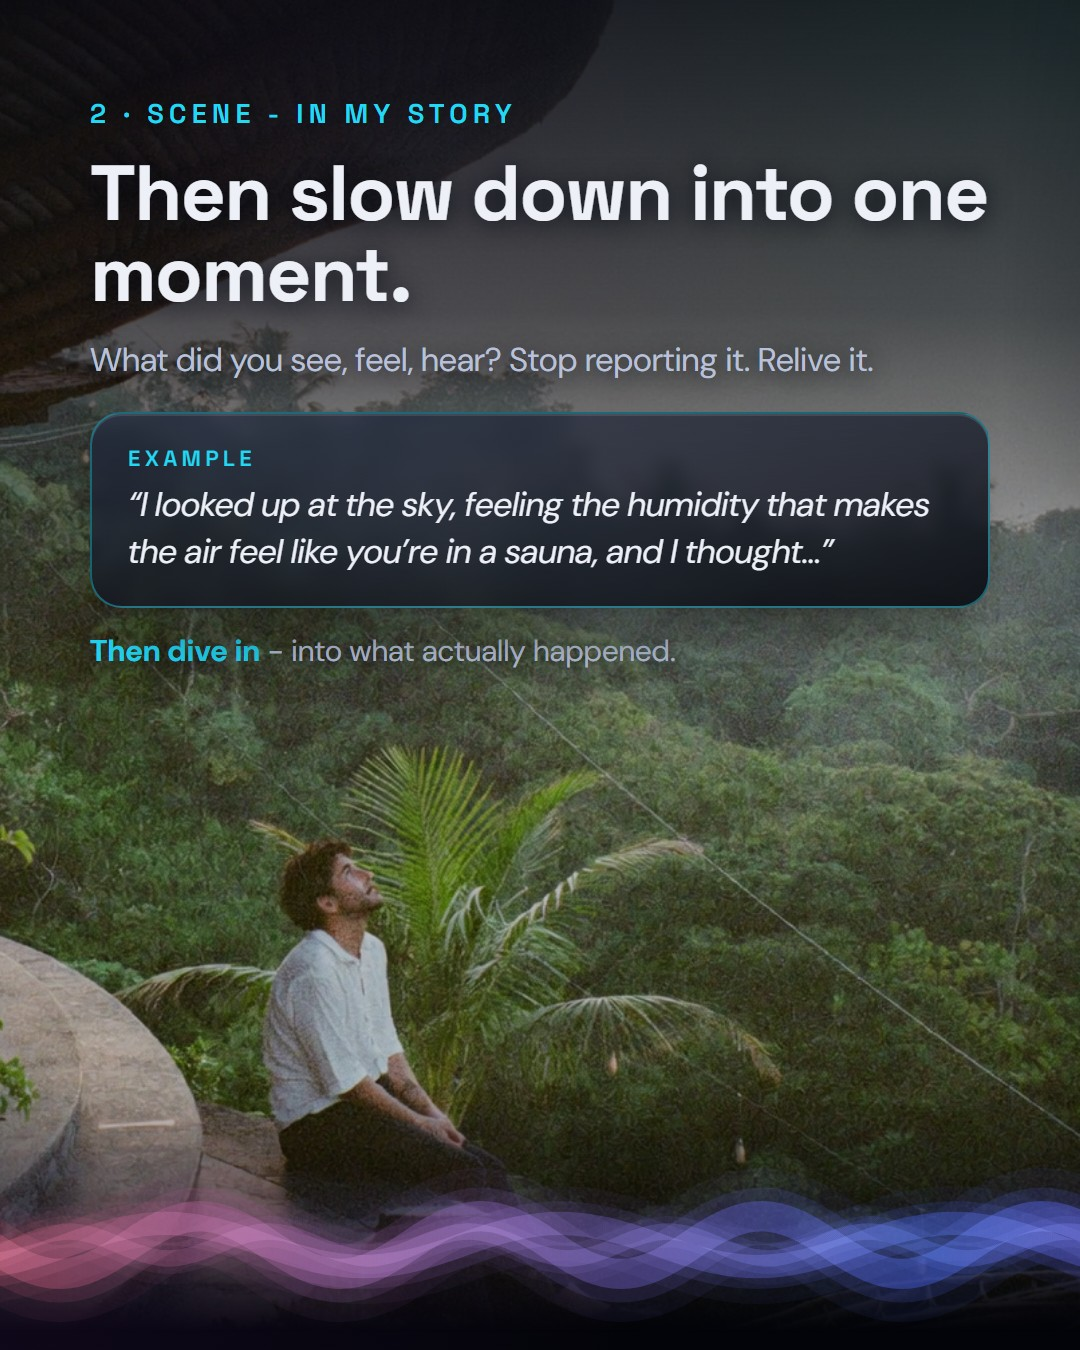
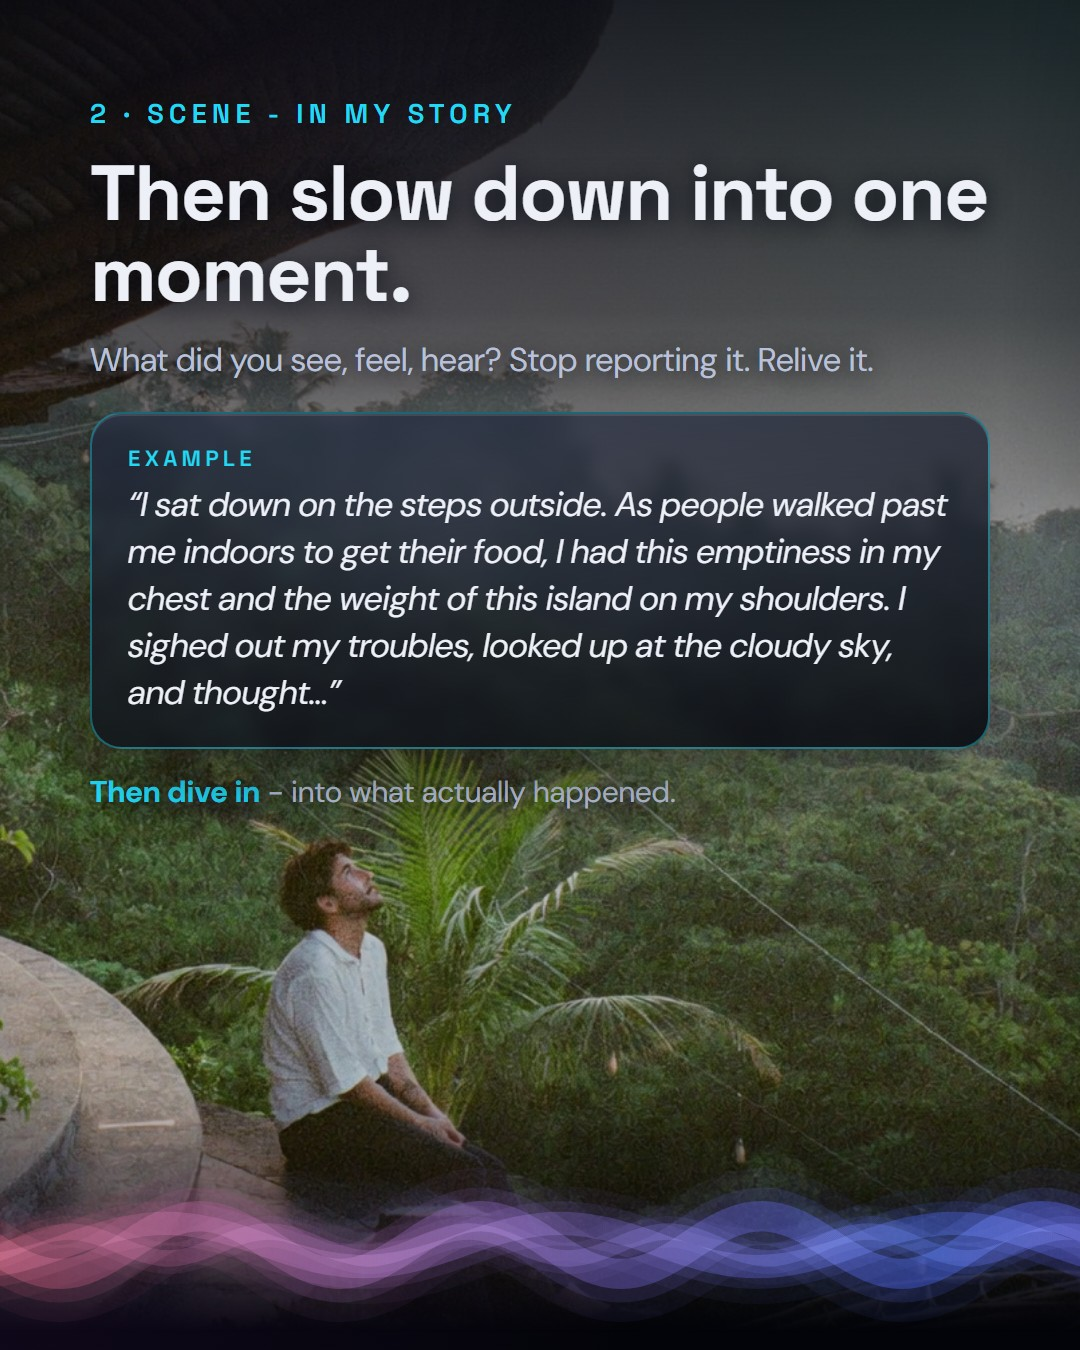
Phone deck viewer: Post 4 black - Tariq's new scene on slide 4

Changed region(s): [[0.0611, 0.3422, 0.9167, 0.6222]]

diff --git a/public/d-BlBAiR0ZRDrG/post4-black.html b/public/d-BlBAiR0ZRDrG/post4-black.html
@@ -5,7 +5,7 @@ main{max-width:540px;margin:0 auto;padding:16px 16px 48px}h1{font-size:18px;marg
 .dots{display:flex;justify-content:center;gap:6px;margin:10px 0 18px}.dots i{width:6px;height:6px;border-radius:50%;background:#36406a}.dots i.on{background:#22D9F5}
 .pano{overflow-x:auto;border-radius:8px}.pano img{height:260px;display:block}h2{font-size:14px;margin:22px 0 8px;color:#B9C0D8}</style></head><body><main>
 <a href="index.html">‹ All</a><h1>Post 4 · How to Tell Epic Stories - black</h1><small>9 slides · swipe like Instagram</small><small style="display:block;margin:6px 0">Version: <a href="post4.html">Glassy gradient</a> · <a href="post4-black.html">Black</a></small>
-<div class="car" id="c"><img src="post4-black/01.jpg?v=7" alt="Slide 1"><img src="post4-black/02.jpg?v=7" alt="Slide 2"><img src="post4-black/03.jpg?v=7" alt="Slide 3"><img src="post4-black/04.jpg?v=7" alt="Slide 4"><img src="post4-black/05.jpg?v=7" alt="Slide 5"><img src="post4-black/06.jpg?v=7" alt="Slide 6"><img src="post4-black/07.jpg?v=7" alt="Slide 7"><img src="post4-black/08.jpg?v=7" alt="Slide 8"><img src="post4-black/09.jpg?v=7" alt="Slide 9"></div><div class="dots" id="d"><i></i><i></i><i></i><i></i><i></i><i></i><i></i><i></i><i></i></div>
-<h2>The whole panorama (scroll sideways)</h2><div class="pano"><img src="post4-black/panorama.jpg?v=7" alt="Full panorama"></div>
+<div class="car" id="c"><img src="post4-black/01.jpg?v=8" alt="Slide 1"><img src="post4-black/02.jpg?v=8" alt="Slide 2"><img src="post4-black/03.jpg?v=8" alt="Slide 3"><img src="post4-black/04.jpg?v=8" alt="Slide 4"><img src="post4-black/05.jpg?v=8" alt="Slide 5"><img src="post4-black/06.jpg?v=8" alt="Slide 6"><img src="post4-black/07.jpg?v=8" alt="Slide 7"><img src="post4-black/08.jpg?v=8" alt="Slide 8"><img src="post4-black/09.jpg?v=8" alt="Slide 9"></div><div class="dots" id="d"><i></i><i></i><i></i><i></i><i></i><i></i><i></i><i></i><i></i></div>
+<h2>The whole panorama (scroll sideways)</h2><div class="pano"><img src="post4-black/panorama.jpg?v=8" alt="Full panorama"></div>
 <small style="display:block;margin-top:18px">Private link - please don't share.</small></main>
 <script>const c=document.getElementById("c"),d=[...document.querySelectorAll("#d i")];const u=()=>{const i=Math.round(c.scrollLeft/c.clientWidth);d.forEach((x,k)=>x.classList.toggle("on",k===i))};c.addEventListener("scroll",u,{passive:true});u();</script></body></html>
